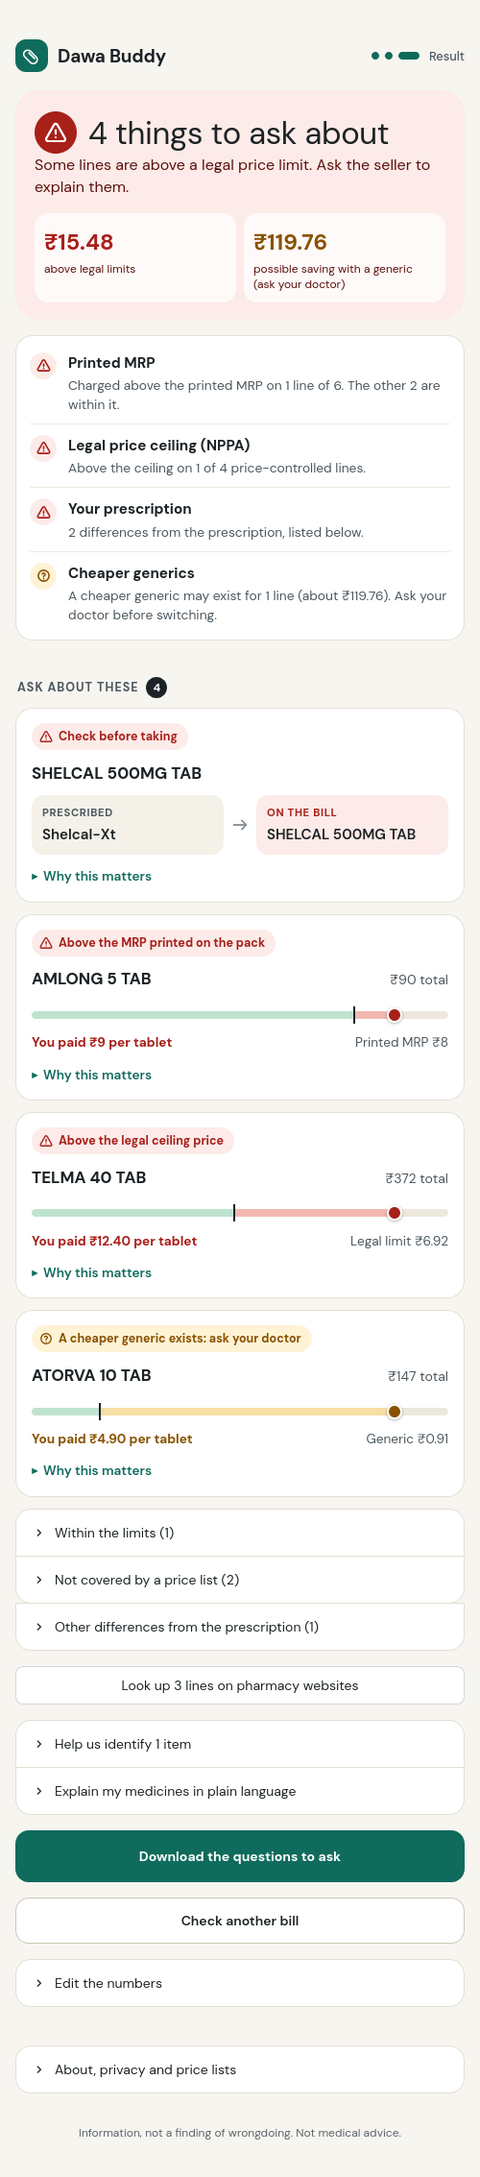
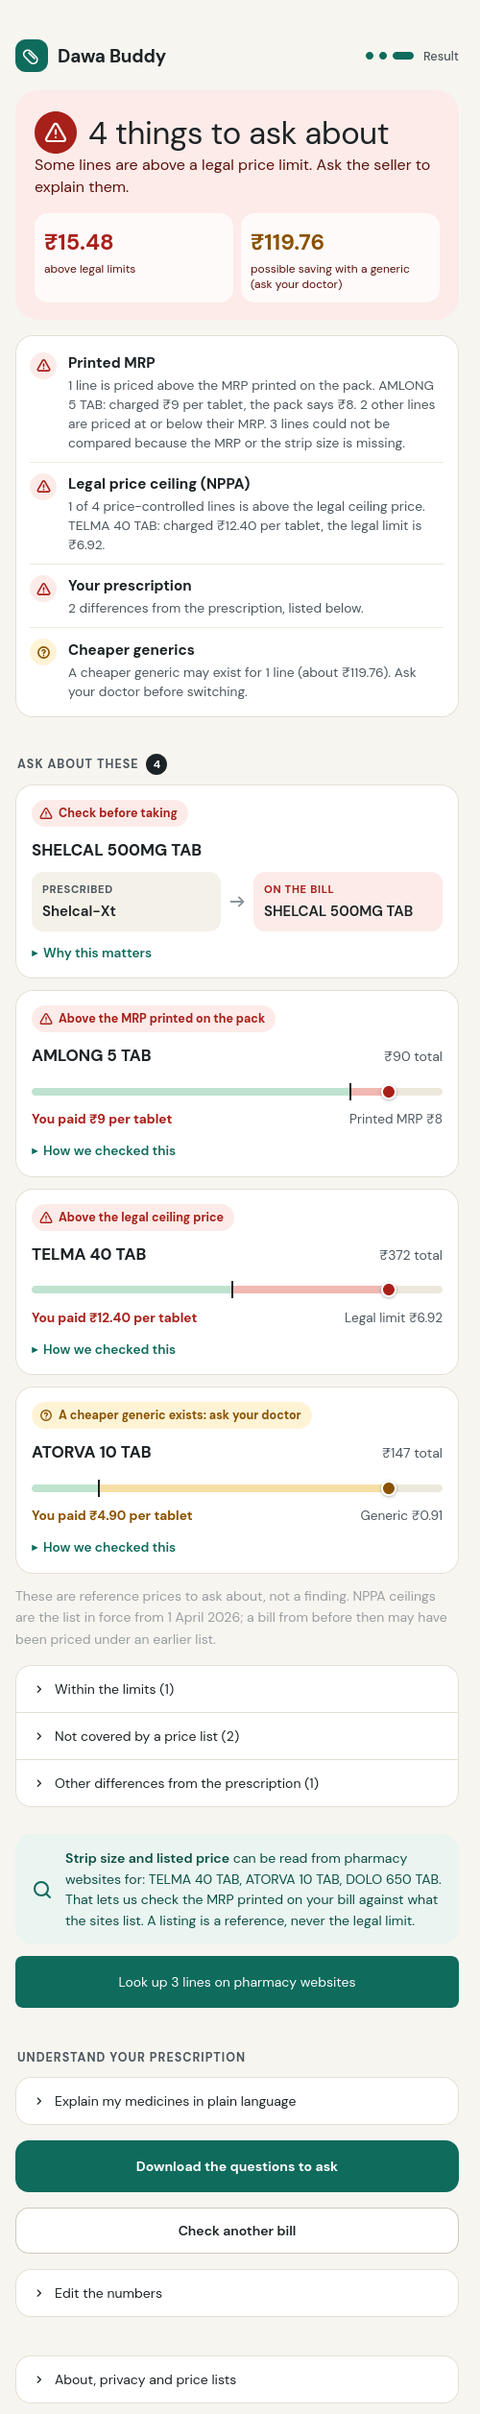
Show how each verdict was reached: identification and its source, charged price, NPPA ceiling or 'none applies', generic and printed MRP; one date caution per page; result screenshots retaken

diff --git a/dawa_buddy/ui.py b/dawa_buddy/ui.py
@@ -157,6 +157,9 @@ label[data-testid="stWidgetLabel"] p {{color:var(--muted); font-size:.9rem;}}
 .db-card details {{margin-top:11px;}} .db-card summary {{cursor:pointer; color:var(--brand); font-size:.85rem; font-weight:600;}}
 .db-body {{margin-top:8px; font-size:.95rem; line-height:1.45; overflow-wrap:anywhere;}}
 .db-why {{margin-top:6px; font-size:.9rem; line-height:1.5; overflow-wrap:anywhere;}}
+.db-facts {{margin-top:8px; padding-top:6px; border-top:1px dashed var(--hair); font-size:.88rem;}}
+.db-fact {{display:flex; justify-content:space-between; gap:12px; padding:2px 0;}} .db-fact span {{color:#6b7480;}} .db-fact b {{font-weight:600; text-align:right; overflow-wrap:anywhere;}}
+.db-factfoot {{margin-top:4px; color:#6b7480; font-size:.82rem; line-height:1.4;}}
 .db-found {{display:inline-flex; align-items:center; gap:6px; background:{S['green']['bg']}; color:{S['green']['fg']}; border-radius:999px; padding:4px 10px 4px 8px; font-size:.78rem; font-weight:600;}}
 .db-callout {{margin:12px 0; border-radius:18px; padding:14px 16px; display:flex; align-items:center; gap:12px; font-size:.88rem; line-height:1.55;}}
 .db-dose {{border-radius:14px; padding:12px 13px; background:var(--brand-tint);}}
@@ -202,6 +205,8 @@ div[class*="st-key-card_"] {{background:var(--card); border:1px solid var(--line
 .mini {{display:flex; justify-content:space-between; gap:12px; padding:7px 0; border-bottom:1px solid var(--hair); font-size:.95rem;}}
 .mini .l {{overflow-wrap:anywhere;}} .mini .r {{color:var(--muted); white-space:nowrap;}}
 .small {{color:#6b7480; font-size:.85rem;}}
+.minibox {{border-bottom:1px solid var(--hair);}} .minibox .mini {{border-bottom:none; padding-bottom:2px;}}
+.minibox details.how {{border:none; background:none; padding:0 0 8px; margin:0;}} .minibox details.how summary {{color:#6b7480; font-size:.85rem; cursor:pointer; padding:0;}} .minibox .db-facts {{border-top:none; margin-top:2px;}}
 </style>
 """
 
@@ -262,10 +267,16 @@ def diff(prescribed: str, billed: str) -> str:
             f'{icon("arrow", 22, T["faint"], 2)}<div style="background:{S["red"]["bg"]}"><small style="color:{S["red"]["fg"]}">On the bill</small><b>{esc(billed)}</b></div></div>')
 
 
-def card(kind: str, name: str, chip_text: str, *, total: str = "", body: str = "", visual: str = "", why: str = "", why_label: str = "Why this matters", icon_name: str | None = None) -> str:
+def facts(rows: list[tuple[str, str]], foot: str = "") -> str:
+    """The reference numbers behind a verdict, as short label/value rows, so a patient can check them: what it was identified as, what was charged, the limits."""
+    body = "".join(f'<div class="db-fact"><span>{esc(k)}</span><b>{esc(v)}</b></div>' for k, v in rows)
+    return f'<div class="db-facts">{body}' + (f'<div class="db-factfoot">{esc(foot)}</div>' if foot else "") + "</div>"
+
+
+def card(kind: str, name: str, chip_text: str, *, total: str = "", body: str = "", visual: str = "", why: str = "", why_label: str = "Why this matters", icon_name: str | None = None, facts_html: str = "") -> str:
     """A finding: status chip, item name (and its total), then a visual (meter or diff) and an optional folded explanation."""
     right = f'<span class="db-amt">{esc(total)}</span>' if total else ""
-    why_html = f'<details><summary>{esc(why_label)}</summary><div class="db-why">{esc(why)}</div></details>' if why else ""
+    why_html = f'<details><summary>{esc(why_label)}</summary><div class="db-why">{esc(why)}</div>{facts_html}</details>' if (why or facts_html) else ""
     body_html = f'<div class="db-body">{esc(body)}</div>' if body else ""
     return (f'<div class="db-card">{chip(kind, chip_text, icon_name)}<div class="db-row"><span class="db-name">{esc(name)}</span>{right}</div>'
             f'{body_html}{visual}{why_html}</div>')

diff --git a/bill_app.py b/bill_app.py
@@ -13,7 +13,7 @@ from concurrent.futures import ThreadPoolExecutor
 import pandas as pd
 import streamlit as st
 
-from dawa_buddy import bill as b, explainer, i18n, listings, llm, nppa_orders, pipeline, review_triage as rt, samples, scheduler, ui, vision, webcheck
+from dawa_buddy import bill as b, explainer, i18n, listings, llm, nppa_orders, pipeline, review_triage as rt, samples, scheduler, transparency, ui, vision, webcheck
 from dawa_buddy.reader import read_prescription
 from dawa_buddy.reconcile import reconcile
 from dawa_buddy.report import questions
@@ -92,7 +92,9 @@ def finding_html(f: b.Finding) -> str:
     else:
         body = first_sentence(f.note)
     why = f.note + (" Tip: under 'Edit the numbers', add the maker or 'glass' / 'non-glass' to the item name to settle this." if f.basis == "bag" else "")
-    return ui.card(kind, f.line.desc, RESULT[f.tier][1], total=f"{rupees(f.line.amount)} total", body=body, visual=visual, why=why)
+    rows, foot = transparency.reference(f, rupees, billed_word)
+    return ui.card(kind, f.line.desc, RESULT[f.tier][1], total=f"{rupees(f.line.amount)} total", body=body, visual=visual, why=why,
+                   why_label="How we checked this", facts_html=ui.facts(rows) if rows else "")
 
 
 def msg(kind: str, text: str) -> None:
@@ -503,7 +505,9 @@ def mini(f) -> str:
         why = f"<br><span class='small'>{html.escape(known + reason + mrp)}</span>"
     elif f.mrp_pct is not None and f.tier == b.TIER_OK:
         why = f"<br><span class='small'>Charged {f.mrp_pct:.0f}% of the printed MRP.</span>"
-    return f"<div class='mini'><span class='l'>{html.escape(f.line.desc)}<br><span class='small'>{label}</span>{why}</span><span class='r'>{right}</span></div>"
+    rows, foot = transparency.reference(f, rupees, billed_word)
+    how = f"<details class='how'><summary>How we checked this</summary>{ui.facts(rows)}</details>" if len(rows) > 1 else ""
+    return f"<div class='minibox'><div class='mini'><span class='l'>{html.escape(f.line.desc)}<br><span class='small'>{label}</span>{why}</span><span class='r'>{right}</span></div>{how}</div>"
 
 
 def needs_identifying(f) -> bool:
@@ -556,6 +560,8 @@ def results(df, total):
     peers = peer_cards(peer_found)
     online = listing_cards(listed)
 
+    if any(transparency.reference(f, rupees, billed_word)[1] for f in fs):
+        st.caption(transparency.CEILING_NOTE)                  # said once for the page: the same sentence under every card is noise
     if fine:
         with st.expander(f"Within the limits ({len(fine)})"):
             st.markdown("".join(mini(f) for f in fine), unsafe_allow_html=True)

diff --git a/dawa_buddy/transparency.py b/dawa_buddy/transparency.py
@@ -1,0 +1,38 @@
+"""The reference numbers behind each verdict, in words a patient can check. Built only from the audit result: the rules decide, this only shows what they used.
+
+Honesty points shown here on purpose: where the ingredient came from, that a missing ceiling means "none applies" (most medicines have none), and that the NPPA ceilings
+are the list in force from 1 April 2026, so an older bill may have been priced under an earlier one.
+"""
+from __future__ import annotations
+from . import bill as b
+
+CEILING_NOTE = ("These are reference prices to ask about, not a finding. NPPA ceilings are the list in force from 1 April 2026; "
+                "a bill from before then may have been priced under an earlier list.")
+PER = {"tablet": "tablet", "ml": "ml", "gm": "gm", "vial": "vial", "bag": "bag"}
+
+
+def reference(f: b.Finding, fmt, billed_word=lambda u: "unit") -> tuple[list[tuple[str, str]], str]:
+    """(rows, foot). `fmt` formats rupees. Rows are (label, value); foot is the one caution, only when a ceiling is mentioned."""
+    rows: list[tuple[str, str]] = []
+    per = PER.get(f.basis, "unit")
+    if f.ingredients:
+        rows.append(("Identified as", f"{f.ingredients} {f.strength}".strip()))
+        if f.source:
+            rows.append(("Taken from", f.source))
+    if f.unit_price:
+        rows.append((f"You were charged (per {per})", fmt(f.unit_price)))
+    elif f.mrp_unit:             # a printed-MRP finding has no per-unit price of its own: the rate on the bill is what was charged
+        rows.append((f"You were charged (per {billed_word(f.line.unit)})", fmt(f.line.rate)))
+    covered = f.tier not in (b.TIER_NOT_MEDICINE, b.TIER_UNIT_UNCLEAR, b.TIER_NEEDS_CONFIRM) and (f.ingredients or f.tier == b.TIER_SUPPLEMENT)
+    shown_ceiling = False
+    if f.ceiling:
+        rows.append(("NPPA ceiling", f"{fmt(f.ceiling)} ({fmt(f.ceiling * b.GST_ALLOWANCE)} with GST)"))
+        shown_ceiling = True
+    elif covered:
+        rows.append(("NPPA ceiling", "none: not price-controlled" if f.tier == b.TIER_SUPPLEMENT else "none applies"))
+        shown_ceiling = True
+    if f.generic_unit:
+        rows.append(("Jan Aushadhi generic", fmt(f.generic_unit)))
+    if f.mrp_unit:
+        rows.append((f"Printed MRP (per {billed_word(f.line.unit)})", fmt(f.mrp_unit)))
+    return rows, (CEILING_NOTE if shown_ceiling else "")

diff --git a/tests/test_bill.py b/tests/test_bill.py
@@ -426,3 +426,21 @@ def test_online_matching_ignores_the_composition_and_maker_printed_after_the_for
     assert w.desc_brand("HIFENAC P TAB ACECLOFENAC +PARACETAMOL INTAS") == "HIFENAC P"
     assert w.same_product("Hifenac P Tablet - Uses, Side Effects, Price", "HIFENAC P TAB ACECLOFENAC +PARACETAMOL INTAS")
     assert not w.same_product("Hifenac Plus Tablet", "HIFENAC P TAB ACECLOFENAC +PARACETAMOL INTAS")                               # a different brand is still refused
+
+
+def test_reference_rows_show_what_the_verdict_used():
+    from dawa_buddy import transparency as t
+    rupees = lambda x: f"₹{x:g}"
+    f = b.audit_line(b.BillLine("x", "HIFENAC P TAB ACECLOFENAC +PARACETAMOL INTAS", 15, 5.53, 82.95, "tab", 1, 5.53))
+    rows, foot = t.reference(f, rupees)
+    d = dict(rows)
+    assert d["Identified as"].startswith("aceclofenac+paracetamol") and "brand table" in d["Taken from"] and "your bill" in d["Taken from"]
+    assert "Jan Aushadhi generic" in d
+    assert d["NPPA ceiling"] == "none applies" and "1 April 2026" in foot                  # a missing ceiling is said out loud, with the date of the list
+    over = b.audit_line(b.BillLine("x", "PARACETAMOL 500MG TAB", 10, 5.0, 50.0, "tab", 10, 50.0))
+    rows, _ = t.reference(over, rupees)
+    assert "NPPA ceiling" in dict(rows) and "with GST" in dict(rows)["NPPA ceiling"]
+    iv = b.audit_line(b.BillLine("x", "IV SET", 2, 265.0, 530.0, "each", None, 11.0))
+    assert "Printed MRP (per piece)" in dict(t.reference(iv, rupees, lambda u: "piece")[0]) and any(k.startswith("You were charged") for k, _ in t.reference(iv, rupees, lambda u: "piece")[0])
+    nm = b.audit_line(b.BillLine("x", "BED CHARGES", 1, 1000.0, 1000.0, "each", None, None))
+    assert not any(k == "NPPA ceiling" for k, _ in t.reference(nm, rupees)[0])                  # a room is not a medicine: no ceiling line

diff --git a/dawa_buddy/bill.py b/dawa_buddy/bill.py
@@ -60,6 +60,7 @@ class Finding:
     mrp_pct: Optional[float] = None    # charged rate as % of the printed MRP, when checkable
     basis: str = ""                    # what unit_price is per: tablet, ml, gm, vial or bag (for display)
     mrp_unit: Optional[float] = None   # the printed MRP on the same basis as the billed rate, when checkable
+    source: str = ""                   # where the identification came from, in words for the reader ("the public brand table and your bill")
 
 
 NON_MEDICINE = re.compile(r"\b(syringe|cannula|iv set|drip set|gloves?|mask|gown|catheter|stent|implant|"
@@ -267,7 +268,23 @@ def audit_line(line: BillLine, confirmed: dict | None = None) -> Finding:
         f.mrp_pct = round(pct, 1)
     elif line.mrp:
         f.note += " MRP given but tablets per strip are missing, so the MRP check could not be made."
+    f.source = source_label(line, confirmed, f)
     return f
+
+
+def source_label(line: BillLine, confirmed: dict | None, f: Finding) -> str:
+    """Where the ingredient came from, so a patient can judge how far to trust it. Empty when nothing was identified."""
+    if not f.ingredients:
+        return ""
+    if (confirmed or {}).get(line.desc.lower()):
+        return "you confirmed it from your strip"
+    if f.via_model:
+        return "an AI suggestion that you have not confirmed"
+    r = resolve(line.desc)
+    src = r[6] if r else ""
+    if src.startswith("brand_table"):
+        return "the public brand table" + (" and the composition printed on your bill" if composition_stated(line.desc, f.ingredients) else "")
+    return {"curated": "our checked list of common brands", "generic": "the generic name printed on your bill"}.get(src, "")
 
 
 def line_unit_price(line: BillLine) -> Optional[float]:

diff --git a/README.md b/README.md
@@ -5,7 +5,7 @@
 **Photograph a pharmacy or hospital bill. Dawa Buddy checks it line by line against India's legal price lists and the doctor's prescription, then tells you exactly what to ask, in English, Hindi or Kannada.**
 
 ![licence: MIT](https://img.shields.io/badge/licence-MIT-green)
-![tests: 277 passing](https://img.shields.io/badge/tests-277%20passing-brightgreen)
+![tests: 278 passing](https://img.shields.io/badge/tests-278%20passing-brightgreen)
 ![Nebius Token Factory](https://img.shields.io/badge/runs%20on-Nebius%20Token%20Factory-1f6feb)
 ![NVIDIA Nemotron](https://img.shields.io/badge/models-NVIDIA%20Nemotron-76b900)
 ![Tavily](https://img.shields.io/badge/web%20evidence-Tavily-7b61ff)
@@ -30,7 +30,7 @@
 ### What a judge should know in one minute
 | Criterion | Short answer | Where to look |
 |---|---|---|
-| **Technological implementation** | Nemotron **Super VL** reads photos, **Lightning** reads prescriptions, **Ultra / Super** write Hindi, all through one Token Factory endpoint. A deterministic rules engine decides every price verdict, so the model can never invent an accusation. 277 tests; 4 evaluation suites. | [§7](#7-architecture), [§8](#8-how-we-use-nebius-nvidia-nemotron-and-tavily), [§10](#10-validation-and-evaluation) |
+| **Technological implementation** | Nemotron **Super VL** reads photos, **Lightning** reads prescriptions, **Ultra / Super** write Hindi, all through one Token Factory endpoint. A deterministic rules engine decides every price verdict, so the model can never invent an accusation. 278 tests; 4 evaluation suites. | [§7](#7-architecture), [§8](#8-how-we-use-nebius-nvidia-nemotron-and-tavily), [§10](#10-validation-and-evaluation) |
 | **Design** | One question per screen, verdict first, a "What we checked" list so a clean bill reads as protection, phone-first, status always colour + icon + words, Hindi and Kannada typography. | [§5](#5-the-product-tour) |
 | **Potential impact** | The Indian government's own court affidavit says patients have "very low bargaining position" and "very limited" knowledge of prices. This tool puts the comparison in the patient's hands at the moment of paying. | [§2](#2-the-problem-with-evidence), [§4](#4-the-idea) |
 | **Quality of the idea** | A *receipt audit*, not a price lookup: it resolves each line to a medicine, strength and form, converts per-tablet, per-strip, per-vial, per-ml and per-piece prices correctly, and reconciles the bill with the prescription (including the wrong *variant* handed over). It is honest about what it cannot see. | [§4](#4-the-idea), [§9](#9-engineering-decisions-and-why) |
@@ -54,7 +54,7 @@ I started with one real prescription and its pharmacy bill, from my own family, 
 
 It was not simple. The prescription said **Shelcal-XT**; the counter had handed over **Shelcal 500**, a different product, and nothing on the bill said so. The bill printed the MRP *per strip* beside a *per-tablet* price, so comparing them needed a tablets-per-strip number that only the strip itself had. A hospital bill listed a saline bag at a price that looked wrong, until I found that NPPA publishes a **second, higher legal ceiling** for "special features" packs, in a separate gazette notification, and that the bag matched it to the paisa. Every one of these checks was possible. Each needed gazette PDFs, a spreadsheet and patience that a family does not have at a hospital discharge counter.
 
-Then the court record caught up with the experience. In October 2026 a Supreme Court bench began asking why a drip line with an MRP of ₹11 was being sold for ₹277, and the Union government told the Court, in an affidavit, that patients have a "very low bargaining position" and "very limited" knowledge of drugs, substitutes and prices. That sentence is the whole problem statement. Dawa Buddy is my attempt to reduce that asymmetry for one patient, with one photo, in under a minute: do the arithmetic and the lookups, say what could not be checked, and phrase every finding as a question to ask, never an accusation.
+Then the court record caught up with the experience. In October 2026 a Supreme Court bench began asking why a drip line with an MRP of ₹11 was being sold for ₹278, and the Union government told the Court, in an affidavit, that patients have a "very low bargaining position" and "very limited" knowledge of drugs, substitutes and prices. That sentence is the whole problem statement. Dawa Buddy is my attempt to reduce that asymmetry for one patient, with one photo, in under a minute: do the arithmetic and the lookups, say what could not be checked, and phrase every finding as a question to ask, never an accusation.
 
 ## 2. The problem, with evidence
 Sources are numbered and listed in [section 19](#19-sources). Dates are as reported.
@@ -63,7 +63,7 @@ Sources are numbered and listed in [section 19](#19-sources). Dates are as repor
 Two bodies of litigation and the government's own filings describe the same pattern.
 
 - **27 October 2026 (yesterday).** A bench of Justices Vikram Nath and Sandeep Mehta heard petitions by advocate Kishan Chand Jain and paediatric surgeon Sanjay Kulshrestha seeking stricter enforcement of the Drugs (Prices Control) Order, 2013. The bench asked how a hospital could charge **₹1.3 lakh for a cancer injection a distributor could procure for ₹11,000** and asked the Centre to justify it [3]. It noted that around **90% of medicines are outside the DPCO's price controls** [3]. Hospitals' counsel argued that capping margins would make hospital operations unviable and push costs onto other charges; the Centre argued for a "calibrated approach" and said complete control is not the answer [2]. **The order is reserved; written submissions are due in two weeks** [2]. The outcome is pending as this README is written.
-- **12 October 2026.** The Centre told the Court it would cap trade margins at 30% on non-scheduled cancer drugs. The bench called that "just the tip of the iceberg" and asked about other products. Justice Mehta cited an **India-made cardiac stent costing about ₹5,000 sold by hospitals for more than ₹25,000**, and **"a saline drip line carrying an MRP of ₹11 being sold for ₹277"** [4]. The Centre's affidavit estimated the cancer-drug cap would cut MRPs by 20% to 70%, saving about ₹2,500 crore a year [4].
+- **12 October 2026.** The Centre told the Court it would cap trade margins at 30% on non-scheduled cancer drugs. The bench called that "just the tip of the iceberg" and asked about other products. Justice Mehta cited an **India-made cardiac stent costing about ₹5,000 sold by hospitals for more than ₹25,000**, and **"a saline drip line carrying an MRP of ₹11 being sold for ₹278"** [4]. The Centre's affidavit estimated the cancer-drug cap would cut MRPs by 20% to 70%, saving about ₹2,500 crore a year [4].
 - **The government's affidavit** (reported 23 October 2026) calls hospitals charging high MRPs for medicines and consumables a **"malpractice"**. It says patients have a "very low bargaining position vis-a-vis the hospital, and the patient's knowledge of drugs, their substitutes and their prices is also very limited". It describes margins of **170% to 700% or more on anti-cancer drugs** and **100% to 1000% or more on consumables**, and notes that for patients paying directly, hospital supplies are **"billed separately at MRP"** [5].
 - **4 March 2025, *Siddharth Dalmia v. Union of India*.** A PIL alleged that private hospitals push patients to buy medicines, implants and devices from in-house pharmacies at higher prices. Its example: an injection sold at an MRP of ₹61,132 while the same company's product was available in the open market at ₹50,000, with one free injection for every four bought that the hospital did not pass on. The bench (Justices Surya Kant and N Kotiswar Singh) left the policy to state governments [6].
 
@@ -140,7 +140,7 @@ Dawa Buddy cannot fix a pricing policy. It can give a patient the numbers the po
 
 | Pattern reported in the Court | What the patient can see | What Dawa Buddy does today | Where it stops |
 |---|---|---|---|
-| **Consumable billed far above its printed MRP** (drip line, MRP ₹11, sold at ₹277) | The MRP on the pack and the billed rate | **Per-piece MRP check.** Flags "Above the MRP printed on the pack" with the price meter. The *Hospital pharmacy bill* sample reproduces it (IV set, MRP ₹11, billed ₹265). | Needs the MRP read off the pack. It cannot know an MRP it was not given. |
+| **Consumable billed far above its printed MRP** (drip line, MRP ₹11, sold at ₹278) | The MRP on the pack and the billed rate | **Per-piece MRP check.** Flags "Above the MRP printed on the pack" with the price meter. The *Hospital pharmacy bill* sample reproduces it (IV set, MRP ₹11, billed ₹265). | Needs the MRP read off the pack. It cannot know an MRP it was not given. |
 | **A scheduled drug or injection above its legal ceiling** | Bill rate, strength, form | Converts to per tablet, per vial or per ml and compares with the **NPPA ceiling (911 formulations loaded)** plus a GST allowance. The sample shows two injections above ceiling. | Scheduled medicines only; ceilings as of 1 April 2026. |
 | **Non-scheduled branded drug where the MRP is many times the trade price** (₹2,700 bought, MRP ₹27,000) | Only the MRP | Checks the bill against the printed MRP; compares with the **Jan Aushadhi generic price** where a generic exists (a gap of 3x or more becomes a question *for the doctor*); shows pharmacy-site listings as a reference. | **It cannot see the price to retailer.** The heart of the Court's concern is invisible to the patient, and with no ceiling there is nothing to call illegal. It says so. |
 | **A hospital charging a drug at many times what a distributor pays** (₹11,000 vs ₹1.3 lakh) | MRP and billed rate | Flags only if the bill exceeds the printed MRP; otherwise reports "within the printed MRP" and any generic benchmark. | Same limit: a mark-up *within* MRP is a policy question, not something a bill can prove. |
@@ -314,7 +314,7 @@ All numbers below are reproducible with the commands in [section 13](#13-setup-r
 ### 10.1 Results
 | Check | Result | Caveat |
 |---|---|---|
-| Unit and integration tests | **277 pass** | Includes fake-server tests for the Ollama and Tavily paths and a test that inspects what is sent to Tavily. |
+| Unit and integration tests | **278 pass** | Includes fake-server tests for the Ollama and Tavily paths and a test that inspects what is sent to Tavily. |
 | Brand resolution, 108 real brand lines | **99 correct, 4 missed (safe), 0 wrong.** The curated map alone: 26 correct, 61 missed, 2 wrong (1 reached a price verdict). 14 of 14 supplements, invented and ambiguous names handled safely. | Expected answers were written from pharmaceutical knowledge, **not** copied from the table. A pharmacist should review them. |
 | Bill tier accuracy, 18 synthetic lines (tablets, liquids, injections) | **18 of 18** | Synthetic prices written by the author. |
 | Prescription extraction, 24 synthetic cases | Offline rules F1 **1.00**, live Nemotron F1 **1.00**; safety-flag F1 1.00 / 1.00; 0 invented medicines; median latency 1.33 s | **Saturated**: the rules were tuned on this style of text, so it does not show the model's value. The real-photo comparison does. |
@@ -331,7 +331,7 @@ All numbers below are reproducible with the commands in [section 13](#13-setup-r
 
 ### 10.2 Reproduce
 ```bash
-pytest -q tests                                   # 277 tests
+pytest -q tests                                   # 278 tests
 python -m evals.run_bill_evals                    # 18 synthetic bill lines, tier accuracy
 python -m evals.run_brand_evals [--verbose]       # 108 brand lines: correct / missed / wrong
 python -m evals.run_evals --out evals/results.md  # 24 synthetic prescriptions, live model
@@ -371,7 +371,7 @@ Synthetic tests passed long before real documents did. These are the failures re
 | An LLM second-opinion review of the Hindi and Kannada text found a grammar error in a Kannada safety sentence, a double-verb bug in the Kannada medicine table, passive "clinical" wording, and 111 ingredients whose warnings were thin (NSAIDs with no pregnancy warning, doxycycline, albendazole, thiocolchicoside with no "never in pregnancy", CNS drugs with no "do not drive"). | Fixes applied the same day; every added warning reuses an existing translated sentence, so no new unreviewed Kannada was introduced; tests pin the grammar rule and the pregnancy-wording rules. The human reviewers' sheet is regenerated from the corrected text. |
 | Two more real bills (29 Oct 2026): one prints the MRP per tablet with tax included, one prints two values in each cell (quantity over discount, MRP over net rate) and the maker's name under each item. The reader took the pre-tax "Taxable" column as the line amount, left the maker in the item name, and the audit priced "ACECLOFENAC + PARACETAMOL" as plain paracetamol and flagged it above its ceiling, which was a false accusation. "LOX 2% JELLY" was looked up in the tablet list, so its ingredient was never found, even with web search. | The photo prompt now says the amount is the tax-inclusive line value and never the Taxable column; the maker/HSN text is stripped from names; a per-tablet MRP is converted so it is never divided by a strip size; a unit is inferred when the name states the form (SYP, JELLY). A name listing several ingredients is never priced as one, and a brand name followed by its composition is looked up by the brand part alone. The form detector now knows "jelly". Four new tests; the old bills still audit the same. |
 | The same two bills showed that fixing one layout at a time does not scale: a new column order would break the reader again. | The reader now returns every number in each row; code (not the model) finds the quantity, price and line value that multiply out, makes the lines add up to the printed total, prefers the tax-inclusive value, works a missing price out as value over quantity, and tells a per-tablet MRP from a per-strip one by size. A model-free test suite pins each rule. **`scripts/synth_bills.py`** draws ten invented bills in different layouts (per-tablet and per-strip MRP, split tax, stacked cells, a discount column, scrambled headers, no rate column, a tilted blurred photo): **49 of 49 rows read right**. That is a stress test of layouts that I tuned against, not an accuracy figure for real bills. | Invalid JSON from the model (a batch code listed among the numbers) is repaired and retried once, so it cannot end a patient's session. |
-| The Supreme Court's headline example (a ₹11 consumable billed at ₹277) was caught only if the user chose a unit; consumables had no "per piece" option. | Added **per piece** with a direct MRP comparison, plus a test and the hospital sample line. Found by reading the court coverage against the app, on 28 October. |
+| The Supreme Court's headline example (a ₹11 consumable billed at ₹278) was caught only if the user chose a unit; consumables had no "per piece" option. | Added **per piece** with a direct MRP comparison, plus a test and the hospital sample line. Found by reading the court coverage against the app, on 28 October. |
 
 ## 11. How it meets the requirements
 | Req | How it is met | Evidence |
@@ -547,11 +547,11 @@ Accessed 28 October 2026 unless noted. Figures in the news reports are as report
 2. The Hindu, "SC says 'economic policy' cannot take precedence over lives as Centre backs 'calibrated' drug-price controls", 27 Oct 2026. https://www.thehindu.com/news/national/sc-says-economic-policy-cannot-take-precedence-over-lives-as-centre-backs-calibrated-drug-price-controls/article71631892.ece
 3. ThePrint, "'Not through this dacoity': SC questions Rs 1.3 lakh hospital charge for Rs 11,000 cancer injection", 27 Oct 2026. https://theprint.in/health/not-through-this-dacoity-sc-questions-rs-1-3-lakh-hospital-charge-for-rs-11000-cancer-vaccine/3083192/
 4. The Hindu, "Supreme Court wants cap on trade margin for all essential medicines and medical products", 12 Oct 2026 (updated 17 Oct). https://www.thehindu.com/sci-tech/health/supreme-court-wants-cap-on-trade-margin-for-all-essential-medicines-and-medical-products/article71575807.ece
-5. Times of India, "Hospitals 'overcharging' is a malpractice: Govt to Supreme Court", 23 Oct 2026. https://timesofindia.indiatimes.com/india/hospitals-overcharging-is-a-malpractice-govt-to-supreme-court/articleshow/135127760.cms
+5. Times of India, "Hospitals 'overcharging' is a malpractice: Govt to Supreme Court", 23 Oct 2026. https://timesofindia.indiatimes.com/india/hospitals-overcharging-is-a-malpractice-govt-to-supreme-court/articleshow/135127860.cms
 6. PTI via ET Pharma, "Policy decisions by states needed to protect patients from being fleeced by pharmacies at private hospitals: SC", 5 Mar 2025. https://pharma.economictimes.indiatimes.com/news/policy-and-regulations/policy-decisions-by-states-needed-to-protect-patients-from-being-fleeced-by-pharmacies-at-private-hospitals-sc/118721289
 7. The Hindu (Data Point), "₹8,447 crore in medicine overcharging claims remain outstanding as SC seeks wider price controls", 22 Oct 2026, citing NPPA and NSS Report no. 596 (Household Social Consumption: Health, 2025). https://www.thehindu.com/data/8447-crore-in-medicine-overcharging-claims-remain-outstanding-as-sc-seeks-wider-price-controls/article71607884.ece
 8. National Health Systems Resource Centre, National Health Accounts Estimates for India 2022-23. https://nhsrcindia.org/sites/default/files/2026-05/NHA%202022-23%20Report.pdf
-9. PIB, "NPPA Integrates Pharma Jan Samadhan Portal with Pharma Sahi Daam Portal", 25 Jun 2026. https://www.pib.gov.in/PressReleasePage.aspx?PRID=2277731&reg=48&lang=1
+9. PIB, "NPPA Integrates Pharma Jan Samadhan Portal with Pharma Sahi Daam Portal", 25 Jun 2026. https://www.pib.gov.in/PressReleasePage.aspx?PRID=2278731&reg=48&lang=1
 10. NPPA, Pharma Sahi Daam. https://nppa.gov.in/pharma_sahi_daam
 11. Consumer Awareness Group, "Maximum Retail Price (MRP) and Over-Charging". https://www.cag.org.in/blogs/maximum-retail-price-mrp-and-over-charging
 12. Legal 500, "NPPA Revises The Ceiling Price Of Coronary Stent" (the February 2017 cap, up to 85%). https://www.legal500.com/intelligence/india/food-drugs-healthcare-life-sciences/nppa-revises-the-ceiling-price-of-coronary-stent
@@ -580,6 +580,6 @@ dawa_buddy/
 data/                       Price lists, brand table, overrides, NOTICE.md
 scripts/                    audit_bill, read_photos, check_nebius, NPPA PDF parsers, brand-table builder, review-pack builder (markdown), review-sheet builder (xlsx for reviewers: one row per phrase, a verdict dropdown)
 evals/                      Gold sets and runners
-tests/                      277 tests
+tests/                      278 tests
 my_data/                    Your private bills and prescriptions (git-ignored)
 ```
